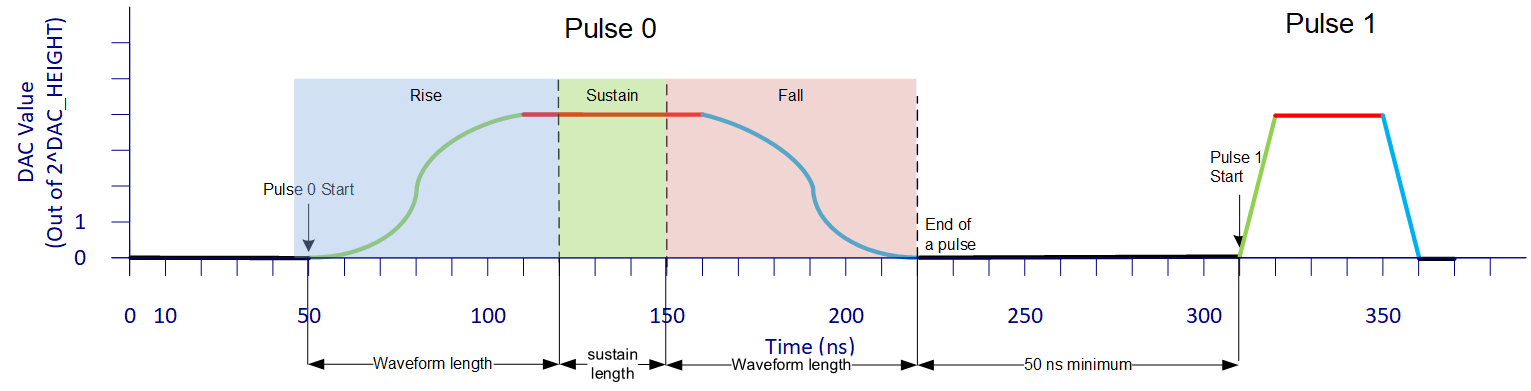
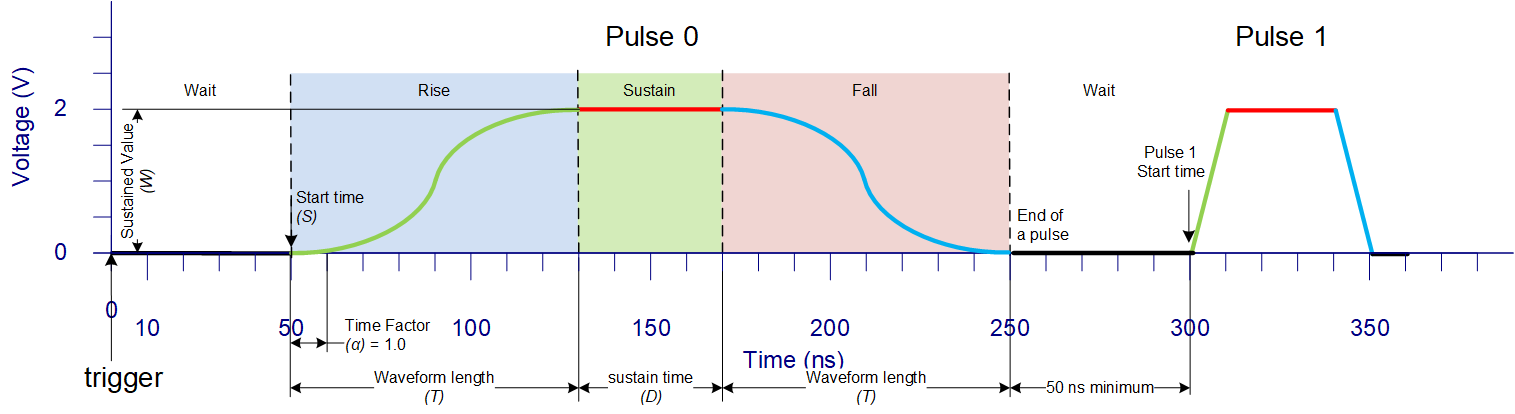
update based on feedback except section 3

diff --git a/chapters/sys.tex b/chapters/sys.tex
@@ -11,21 +11,21 @@
 
 The pulse channel module is an integral component of an FPGA system designed to generate 32 pulsed AC voltage signals and 32 static voltage signals. This system leverages both the processing systems and the programmable logic of the ZCU102 architecture. A Python-based interface allows users to input specific information about the pulses and voltage signals. This interface translates user requests into custom commands, which are then sent to the processing system via the FPGA's UART interface.
 
-The processing system's ARM-based CPU converts Python-generated commands into addressable instructions for the FPGA's blocks. Within the FPGA hardware, a bus router takes the byte-addressable data from the processing system and translates it into block-specific word-addressable data. The system comprises three distinct hardware blocks, each serving a unique and critical function. The orange blocks in \autoref{fig:sys_diagram} illustrate the names of these blocks, which will be discussed in detail in the subsequent sections. This architecture ensures efficient communication and data processing within the FPGA system, enhancing its overall performance and reliability.
+The processing system's ARM-based CPU converts Python-generated commands into addressable instructions for the FPGA's blocks. Within the FPGA hardware, a bus router takes the byte-addressable data from the CPU and translates it into block-specific word-addressable data. The system comprises three distinct hardware blocks, each serving a unique and critical function. The orange blocks in \autoref{fig:sys_diagram} illustrate the names of these blocks, which will be discussed in detail in the subsequent sections. This architecture ensures efficient communication and data processing within the FPGA system, enhancing its overall performance and reliability.
 
-% TODO: this section is more translate Geoff to UW... does it rly needed to be mentioned in the thesis?
-\section{CPU Bus Router}
+% % TODO: this section is more translate Geoff to UW... does it rly needed to be mentioned in the thesis?
+% \section{CPU Bus Router}
 
-The system utilizes a CPU interface adapter to bridge between the PS and the PL. This adapter plays a crucial role by converting byte-addressed signals from the PS AXI bus into a 32-bit word-addressed bus, which is essential for the proper functioning of the blocks within the FPGA design. Illustrated in \autoref{table:ps_addr}, the portions of the PS address are decoded to select one of the three available blocks in the system. Once a block is selected, the lower bits of the address are used to either write to or read from the chosen block. This ensures precise and efficient communication between the PS and the selected block. Additionally, a standardized register interface is implemented in each block to provide consistent access for control and status monitoring, thereby enhancing the system's reliability and ease of use. By employing this CPU interface adapter, the system achieves seamless integration between the PS and PL, facilitating efficient data transfer and control across the FPGA design. This design choice not only simplifies the communication process but also ensures scalability and flexibility for future enhancements.
+% The system utilizes a CPU interface adapter to bridge between the PS and the PL. This adapter plays a crucial role by converting byte-addressed signals from the PS AXI bus into a 32-bit word-addressed bus, which is essential for the proper functioning of the blocks within the FPGA design. Illustrated in \autoref{table:ps_addr}, the portions of the PS address are decoded into block select to choose one of the three available blocks in the system. Once a block is selected, the lower bits of the address are used to either write to or read from the chosen block. This ensures precise and efficient communication between the PS and the selected block. Additionally, a standardized register interface is implemented in each block to provide consistent access for control and status monitoring, thereby enhancing the system's reliability and ease of use. By employing this CPU interface adapter, the system achieves seamless integration between the PS and PL, facilitating efficient data transfer and control across the FPGA design. This design choice not only simplifies the communication process but also ensures scalability and flexibility for future enhancements.
 
  
-% TODO: HOW TF do I properly set the addr table in latex....
-\begin{table}
-\centering
-\caption{Address convert format}
-\includegraphics[width=1.0\textwidth]{figures/pc_address.png}
-\label{table:ps_addr}
-\end{table}
+% % TODO: explain more on this
+% \begin{table}
+% \centering
+% \caption{Address convert format}
+% \includegraphics[width=1.0\textwidth]{figures/pc_address.png}
+% \label{table:ps_addr}
+% \end{table}
 
 \section{Static DC Voltage Block}
 % TODO: replace with a clear picture
@@ -41,35 +41,36 @@ The DC block provides stable and programmable static voltage control using four 
 \begin{table}[h]
 \centering
 
-\caption{SPI DAC message format \cite{ad5628}}
+\caption{SPI DAC message format}
 
 \includegraphics[width=1.0\textwidth]{figures/spi_addr.png}
 \label{table:spi_addr}
 \end{table}
 
-The module supports write operations to update DAC channels and control features such as internal reference voltage and power. It also supports read operations, which return status flags for each SPI transaction. Upon selection, the DC block converts part of the address and the lower 12-bit data from the processing system into SPI command as defined in \autoref{table:spi_addr}. The processing system provides a 12-bit positive integer value for the DACs, which is then converted to an actual voltage value as specified by:
+% Upon selection, the DC block converts part of the address and the lower 12-bit data from the processing system into SPI command as defined in \autoref{table:spi_addr}. 
+The DC block utilizes the lower five bits of the CPU address to select one of four SPI-based DACs. Part of the address is used in the SPI message for the chosen DAC, as detailed in \autoref{table:spi_addr}. This address segment specifies the "channel select" portion of the command, determining which of the eight channels on the selected DAC will be used. The SPI message also includes an "update DAC" command to instruct the DAC to refresh the chosen channel's value, which is set in the "data" portion of the message. The processing system provides a 12-bit positive integer value for the DACs, which is then converted to a voltage value as specified by:
 
 \begin{equation}
 V_{out} = V_{ref} \times \frac{D}{2^{12}}
 \end{equation}
 
-Where $V_{out}$ is the voltage output by the DAC, $V_{ref}$ is the DAC's reference voltage, and $D$ is the data from the processing system \cite{ad5628}. This design ensures precise and flexible static voltage control. The use of multiple DACs and independent SPI modules allows for efficient handling of numerous voltage channels, providing enhanced control and reliability.
+Where $V_{out}$ is the voltage output by the DAC, $V_{ref}$ is the DAC's reference voltage, and $D$ is the data from the processing system \cite{ad5628}. This design ensures precise and flexible static voltage control. Additionally, the module supports write operations to update DAC channels and control features such as internal reference voltage and power. It also supports read operations, which return status flags for each SPI transaction. The use of multiple DACs and independent SPI modules allows for efficient handling of numerous voltage channels, providing enhanced control and reliability.
 
 \section{Pulse AC Voltage Block}
 
-The pulse generation module—also referred to as the AC block—is a sophisticated, synchronous multi-channel pulsed waveform generator designed to deliver precise control for laser operations on the phonetic chips. Its architecture generates pulse sequences with a remarkable 10-nanosecond resolution across 32 channels, ensuring that each digital output is perfectly synchronized. This synchronization proves essential for high-speed digital-to-analog conversion, enabling accurate reconstruction of analog signals.
-% TODO: rename to CCP
+The pulse generation module—also referred to as the AC block—is a synchronous multi-channel pulse generator designed to deliver precise control for laser operations on the photonic chips. Its architecture generates pulse sequences with a 10-nanosecond resolution across 32 channels, ensuring that each digital output is synchronized. 
+
 \begin{figure}[h]
     \centering
     \includegraphics[width=0.8\linewidth]{figures/5.3.png}
     \caption{Block Diagram of the AC block.}
     \label{fig:george}
 \end{figure}
-The AC block acts as the central coordinator for all pulse channels. A Central Coordinator Process (CC-P) manages both external control signals and error notifications from individual channels, ensuring reliable overall performance. Central to its operation is a 24-bit counter that functions as a common timer, as seen in \autoref{fig:george}. Upon receiving an external trigger, this counter initiates the timing process uniformly for all channels. It continues until it reaches either a user-defined sequence length or its maximum value, at which point it sends stop signals to halt pulse generation. This coordinated stopping mechanism is critical because it maintains timing precision and prevents runaway pulses that could lead to data inconsistencies.
+The AC block acts as the central coordinator for all pulse channels. A Central Coordinator Process (CC-P) manages both external control signals and error notifications from individual channels, ensuring reliable overall performance. Central to its operation is a 24-bit counter that functions as a common timer, as seen in \autoref{fig:george}. Upon receiving an external trigger, this counter initiates the timing process uniformly for all channels. It continues until it reaches either a user-defined sequence length or its maximum value, at which point it sends stop signals to halt pulse generation. This coordinated stopping mechanism maintains timing precision and prevents runaway pulses that could lead to data inconsistencies.
 
-A series of internal registers underpin the module's functionality. These registers store key parameters such as the total sequence length, the active channels, and the specific data paths for channels' memories reading and writing operations. Values are loaded into these registers via the CPU interface, which streams configuration data from the processing system. The design supports simultaneous writing to multiple channels, an essential feature for updating waveform parameters in parallel. However, because the data bus is only 32 bits wide, the system limits read operations to one channel at a time, thereby preserving data integrity during retrieval.
+A series of internal registers underpin the module's functionality. These registers store key parameters such as the total sequence length, the active channel enable, and channel select for memory reading and writing operations. Values are loaded into these registers via the CPU interface, which streams configuration data from the processing system. The design supports simultaneous writing to multiple channels, a useful feature for updating pulse parameters in parallel. However, because the data bus is only 32 bits wide, the system limits read operations to one channel at a time.
 
-The module also incorporates an innovative addressing scheme that clearly distinguishes between channel-specific memory and internal control registers. The lower address range is reserved for waveform data and precise pulse parameters, while the upper range is dedicated to registers for the CC-P. Registers for settings such as sequence length, channel enables, and channel selections are both readable and writable. This bidirectional access permits real-time control and monitoring of each channel, facilitating adjustments as operational conditions change. In contrast, dedicated read-only registers continuously convey status information from both the module and the individual pulse channels.
+The module also incorporates an addressing scheme that distinguishes between channel-specific memory and internal control registers. The lower address range is reserved for waveform data and pulse parameters, while the upper range is dedicated to registers for the CC-P. Registers for settings such as sequence length, channel enables, and channel selections are both readable and writable. This bidirectional access permits real-time control and monitoring of each channel, facilitating adjustments as operational conditions change. In contrast, dedicated read-only registers continuously convey status information from both the module and the individual pulse channels.
 
 Error handling within the AC block is equally streamlined. As discussed, each pulse channel generates error signals that are collected as multi-bit vectors. The CC-P then transposes these into several 32-bit registers, with each register corresponding to a specific error type defined in \autoref{table:erro_regs}. Within a given register, each bit represents the status of one of the 32 channels. This systematic condensation of error information into a single-dimensional format simplifies monitoring and debugging processes, enabling engineers to quickly identify and address issues.
 
@@ -79,27 +80,29 @@ The miscellaneous block is a versatile control and status interface integrated i
 
 \section{Software Control Interface}
 % TODO: change this section to match the actual python once it has been re-made
-A robust software interface is as crucial as the FPGA hardware itself for system success. The dedicated Python package translates user-defined waveform values and pulse information into precise addresses and data formats for the hardware. This abstraction bridges the gap between users with limited hardware design experience and the intricate nature of FPGA architectures. By automating tasks such as memory management and data formatting, the system enables users to focus on refining their quantum control strategies rather than wrestling with hardware-level operations. This design philosophy enhances both usability and performance across the entire framework.
+A robust software interface is as crucial as the FPGA hardware itself for system success. The dedicated Python package translates user-defined waveform values and pulse information into addresses and data formats for the hardware. This abstraction bridges the gap between users with limited hardware design experience and the intricate nature of FPGA architectures. By automating tasks such as memory management and data formatting, the system enables users to focus on refining their quantum control strategies rather than wrestling with hardware-level operations. This design philosophy enhances both usability and performance across the entire framework.
 
-The interface functions similarly to a streamlined web API, allowing users to submit waveform data and parameters seamlessly. For every pulse entry, the software automatically locates the next available memory space, computes the starting address and length, and allocates the data accordingly—returning a unique waveform ID for straightforward reference. This methodical allocation ensures that inputs accumulate properly and that any error due to exceeding available memory is promptly flagged. Additionally, the system archives each waveform record in a dedicated file, providing traceability as detailed in \autoref{table:param_rec_table}. The first row for each column in the table represents a unique six-digit wave ID. The remaining rows are values for each base waveform.
+The interface functions similarly to a streamlined web API, allowing users to submit waveform data and parameters seamlessly. For every pulse entry, the software automatically locates the next available memory space, computes the starting address and length, and allocates the data accordingly—returning a unique waveform ID for straightforward reference. This methodical allocation ensures that inputs accumulate properly and that any error due to exceeding available memory is promptly flagged. Additionally, the system archives each waveform record in a dedicated file, providing traceability as detailed in \autoref{table:param_rec_table}. The first row for each column in the table represents a unique six-digit wave ID. The remaining rows are values for each  waveform.
 
+% TODO: add label to explain things
 \begin{table}[h]
 \centering
 \caption{Sample Format of the Waveform Record}
 \label{table:param_rec_table}
-\begin{tabular}{|c|c|c|c|c|}
+\begin{tabular}{|c|c|c|c|}
 \hline
-262144 & 196612 & 327688 & ... & Wave ID abcdef \\
+\textbf{Wave ID} & 262144 & 196612 & 327688\\
 \hline
-0 & 0 & 0 & ... & ... \\
-\hline
-1 & 2 & 5 & ... & ... \\
-\hline
-3 & 5 & 6 & ... & ... \\
-\hline
-4 &  & 8 & ... & ... \\
-\hline
- &  & 12 & ... & ... \\
+\multirow{5}{*}{\rotatebox[origin=c]{90}{\textbf{Waveform Values}}}%
+&0 & 0 & 0 \\
+\cline{2-4}
+&1 & 2 & 5 \\
+\cline{2-4}
+&3 & 5 & 6\\
+\cline{2-4}
+&4 & - & 8\\
+\cline{2-4}
+& - & - & 12\\
 \hline
 \end{tabular}
 \end{table}

diff --git a/chapters/bg.tex b/chapters/bg.tex
@@ -2,51 +2,99 @@
 
 \section{Laser Trapped-Ion Experiment}
 
-Trapped-ion quantum systems have emerged as a leading candidate for quantum computing platforms due to their exceptional coherence times, high-fidelity quantum gates, and promising scalability. In trapped-ion systems, ions—charged atoms confined by electric fields—are precisely controlled and manipulated using laser beams. These lasers serve critical roles, including initializing quantum states, implementing quantum gates, and performing state measurements \cite{naturequantuminfo}. These lasers serve critical roles, including initializing quantum states, implementing quantum gates, and performing state measurements.
+Trapped-ion quantum systems have emerged as a leading candidate for quantum computing platforms due to their outstanding coherence times, high-fidelity quantum gates, and promising scalability. In trapped-ion systems, charged atoms confined by electric fields are precisely controlled and manipulated using laser beams. These lasers serve critical roles, including initializing quantum states, implementing quantum gates, and performing state measurements \cite{naturequantuminfo}. 
 
-However, traditional approaches for optical hardware tend to be bulky, expensive, and power-intensive, posing severe limitations on scalability. As the number of qubits in a trapped-ion quantum computing system grows, these challenges become more pronounced \cite{photonicreview}. Compact, efficient, and rapid modulation capabilities are thus essential to scale quantum computing platforms beyond small-scale demonstrations.
+However, traditional approaches for optical hardware tend to be bulky, expensive, and power-intensive, posing severe limitations on scalability. As the number of qubits in a trapped-ion quantum computing system grows, these challenges become more pronounced \cite{photonicreview}. Compact, efficient, and rapid modulation capabilities are thus needed to scale quantum computing platforms beyond small-scale demonstrations.
 
 Recent advancements in photonic integrated circuits (PICs) have substantially addressed these challenges \cite{apic}. These PICs are miniaturized, enabling direct integration with ion-trap chips, thereby dramatically reducing optical losses, system complexity, and the overall footprint. Crucially, integrated modulators facilitate modulation at very high speeds—on the order of nanoseconds—which matches the stringent timing requirements of quantum operations \cite{naturequantuminfo}.
 
-To fully utilize the capabilities of these advanced PICs, corresponding electronic control systems capable of generating precisely timed, flexible modulation signals at around 100 MHz resolution are necessary. The 100 MHz resolution provided by the system ensures that the modulation signals can be precisely timed and shaped, directly corresponding to the stringent timing requirements of quantum gates that often operate on microsecond timescales. Having 32 synchronous dynamic voltage channels is essential because it allows the simultaneous manipulation of multiple qubits with coherent precision. The precise synchronization of these channels ensures minimal timing jitter and improved gate fidelity, which is indispensable for scaling quantum computing systems \cite{manychanfpgactrlsys}.
+To fully utilize the capabilities of these advanced PICs, corresponding electronic control systems capable of generating precisely timed, flexible modulation signals at around 100 MHz resolution are necessary. The 100 MHz resolution provided by our system ensures that the modulation signals can be precisely timed and shaped, directly corresponding to the stringent timing requirements of quantum gates that often operate on microsecond timescales. Having 32 synchronous dynamic voltage channels is necessary because it allows the simultaneous manipulation of multiple qubits with coherent precision. The precise synchronization of these channels ensures minimal timing jitter and improved gate fidelity, which is indispensable for scaling quantum computing systems \cite{manychanfpgactrlsys}.
 
 \section{Hardware Description}
+% TODO: Diagram of the board/system
+To meet the demands of advanced control electronics, this project utilizes a Field Programmable Gate Array (FPGA). FPGAs excel at high-speed, low-latency parallel processing, enabling the simultaneous control of multiple channels and the implementation of flexible, efficient digital signal processing algorithms. These capabilities make FPGAs particularly suited for managing complex experimental setups that demand precise timing and real-time adaptability. This project employs the Xilinx Zynq UltraScale+ ZCU102 Evaluation Board, a platform chosen for its remarkable computational resources and flexible high-speed interfacing capabilities.
 
-To meet the demands of advanced control electronics, this project utilizes a Field Programmable Gate Array (FPGA). FPGAs excel at high-speed, low-latency parallel processing, enabling the simultaneous control of multiple channels and the implementation of flexible, efficient digital signal processing algorithms. These capabilities make FPGAs particularly suited for managing complex experimental setups that demand precise timing and real-time adaptability. This project employs the Xilinx Zynq UltraScale+ ZCU102 Evaluation Board, a robust platform chosen for its exceptional computational resources and flexible high-speed interfacing capabilities.
+The ZCU102 board (\autoref{fig:fpga_diagram}) is integral for generating precise modulation signals required by quantum lasers. It features a range of peripherals, including PMOD interfaces that support low-speed digital-to-analog converters (DACs) via SPI protocols, and two FMC HPC connectors for high-speed DACs, crucial for waveform generation. The core of this FPGA platform is the Xilinx Zynq architecture, which combines a Processing System (PS) with Programmable Logic (PL) \cite{XilinxUG1182}.
 
-The ZCU102 board is integral for generating precise modulation signals required by quantum lasers. It features a range of peripherals, including PMOD interfaces that support low-speed digital-to-analog converters (DACs) via SPI protocols, and two FMC HPC connectors for high-speed DACs, essential for waveform generation. The core of this FPGA platform is the Xilinx Zynq architecture, which seamlessly combines a Processing System (PS) with Programmable Logic (PL) \cite{XilinxUG1182}.
+\begin{figure}[ht]
+    \centering
+    \includegraphics[width=0.80\linewidth]{figures/board.png}
+    \caption{The FPGA board with necessary peripherals.}
+    \label{fig:fpga_diagram}
+\end{figure}
 
-The PS is powered by a quad-core Arm\textsuperscript{\textregistered} Cortex\textsuperscript{\textregistered}-A53 processor, capable of running real-time processing applications. It incorporates multiple peripherals, such as DDR4 memory for application storage and an Advanced eXtensible Interface (AXI) that connects the PS to other components, including the programmable logic. The PL, essentially the FPGA itself, is equipped with essential resources such as logic cells, flip-flops, and block RAMs (BRAM) \cite{XilinxUG1182}. It provides ample capacity for storing intermediate data.
+The PS is powered by a quad-core Arm\textsuperscript{\textregistered} Cortex\textsuperscript{\textregistered}-A53 processor, capable of running real-time processing applications. It incorporates multiple peripherals, such as DDR4 memory for application storage and an Advanced eXtensible Interface (AXI) that connects the PS to other components, including the programmable logic. The PL, essentially the FPGA itself, contains logic cells, flip-flops, and block RAMs (BRAM) \cite{XilinxUG1182}. It provides ample capacity for storing intermediate data.
 
 This project leverages programmable logic to build custom hardware designs that serve the unique demands of quantum laser experiments. The FPGA's dedicated logic circuits and integrated high-speed interfaces enable quick, reliable communication with external modules. This capability is crucial for maintaining accurate control and precise timin. General-purpose I/O options, such as PMOD and FMC connectors, further simplify the experimental setup. These connectors offer flexible interfacing, allowing for both low-speed and high-speed connections that scale to the experiment's complexity without sacrificing performance.
 
-In addition to the hardware features, a Python interface abstracts the low-level hardware details, streamlines testing and integration with the FPGA platform. Behind the scenes, a custom C-based program running in the processing system translates data from the Python interface into a format that the FPGA can efficiently process. This layered approach bridges high-level control with low-level hardware performance, ensuring that experimental algorithms and rapid prototyping can be achieved with reliability and precision.
+In addition to the hardware features, a Python interface abstracts the low-level hardware details, streamlines testing, and integration with the FPGA platform. Indicated in \autoref{fig:fpga_diagram}, a custom C-based program running in the processing system translates Python-generated commands into data that the FPGA can efficiently process. This layered approach bridges high-level control with low-level hardware performance, ensuring that experimental algorithms and rapid prototyping can be achieved.
 
 \section{Pulse Sequence}
 
-In high-fidelity quantum computing and atomic manipulation, pulsed sequences are essential for delivering precise, accurate, and stable outputs to photonic integrated circuits \cite{apic}. These laser pulses depicted in \autoref{fig:pulse_seq} are designed with a controlled shape that consists of three distinct phases: rise, sustain, and fall. Each phase plays a vital role in ensuring that quantum operations are performed reliably.
+In high-fidelity quantum computing and atomic manipulation, pulsed sequences are pivotal for delivering precise, accurate, and stable outputs to photonic integrated circuits \cite{apic}. These laser pulses (\autoref{fig:pulse_seq}) are designed with a controlled shape that consists of three distinct phases: rise, sustain, and fall. Each phase ensures quantum operations are performed reliably.
 
 \begin{figure}[h]
     \centering
     \includegraphics[width=1\linewidth]{figures/2.1.png}
-    \caption{Waveform shape of the pulse sequence.}
+    \caption{Example of the pulse sequence.}
     \label{fig:pulse_seq}
 \end{figure}
 
-During the rise phase, the laser intensity increases to its target level. A well-controlled rise minimizes errors and ensures that the experiment operate exactly when needed. The sustain phase follows, during which the laser maintains a constant optical intensity. This steady state is crucial because any fluctuation can compromise the fidelity of quantum gates by introducing operational errors \cite{naturequantuminfo}. Finally, the fall phase allows the laser power to decrease smoothly. Notably, maintaining symmetry between the rise and fall phases is critical for consistency and repeatability. In this design, the fall essentially becomes the reciprocal of the rise.
+During the rise phase, the laser intensity increases to its target level. A well-controlled rise minimizes errors and ensures that the experiment operate exactly when needed. The sustain phase follows, during which the laser maintains a constant optical intensity. This steady state is paramount because any fluctuation can compromise the fidelity of quantum gates by introducing operational errors \cite{naturequantuminfo}. Finally, the fall phase allows the laser power to decrease smoothly. Notably, maintaining symmetry between the rise and fall phases is critical for consistency and repeatability. In this design, the fall essentially becomes the mirror image of the rise. The rise is a programmable waveform pattern, while the sustain is a flat region with programmable length.
 
-The waveform is generated as a series of discrete values representing a continuous function, with samples taken every 10 nanoseconds by the digital-to-analog converter (DAC). These sample values can be adjusted from a set of parameters to fine-tune the laser's output. For a waveform $f(x)$, a pulse $g(x)$ generated by the hardware to the laser can be defined by:
+Pulse 0 from \autoref{fig:pulse_seq}, with a waveform \( f_0(x) \) (green line), can be generated using the equations in \autoref{tab:pulse_eqs} at various times and phases. Here, \( S \) denotes the pulse start time, \( T \) is the waveform length, \( \alpha \) is the time factor, \( D \) is the sustain time, \( A \) is the gain factor, and \( W \) is the output value during the sustain phase. Note that in \autoref{fig:pulse_seq}, both the time and gain factors are set to 1.
+% Detailed description of the parameters are described in \autoref{tab:pd_param}.
 
-\begin{equation}
-g(x) = A \cdot 
-\begin{cases} 
-f\left(\dfrac{\alpha(x - S)}{T}\right), & \!\!\! S \leq x < S + \left\lceil \frac{T-1}{\alpha} \right\rceil, \\[8pt]
-f\left(\dfrac{T-1}{T}\right), & \!\!\! S + \left\lceil \frac{T-1}{\alpha} \right\rceil \leq x < S + \left\lceil \frac{T-1}{\alpha} \right\rceil + D, \\[8pt]
-f\left(\dfrac{\alpha\left(2\left\lceil \frac{T-1}{\alpha} \right\rceil + D - (x - S) - 1\right)}{T}\right), & \!\!\! S + \left\lceil \frac{T-1}{\alpha} \right\rceil + D \leq x < S + 2\left\lceil \frac{T-1}{\alpha} \right\rceil + D - 1, \\[8pt]
-0, & \!\!\! \text{otherwise}.
-\end{cases}
-\end{equation}
+% The pulses are represented as a series of discrete values representing a continuous function, with samples given every 10 nanoseconds to the digital-to-analog converter (DAC). These sample values can be adjusted to fine-tune the laser's output. 
+% For a waveform $f(x)$, a pulse $g(x)$ generated by the hardware for the laser can be defined by:
+
+% % TODO: more pages to simplify this equation (what time on thing)
+% \begin{equation}
+% g(x) = A \cdot 
+% \begin{cases} 
+% f\left(\dfrac{\alpha(x - S)}{T}\right), & \!\!\! S \leq x < S + \left\lceil \frac{T-1}{\alpha} \right\rceil, \\[8pt]
+% f\left(\dfrac{T-1}{T}\right), & \!\!\! S + \left\lceil \frac{T-1}{\alpha} \right\rceil \leq x < S + \left\lceil \frac{T-1}{\alpha} \right\rceil + D, \\[8pt]
+% f\left(\dfrac{\alpha\left(2\left\lceil \frac{T-1}{\alpha} \right\rceil + D - (x - S) - 1\right)}{T}\right), & \!\!\! S + \left\lceil \frac{T-1}{\alpha} \right\rceil + D \leq x < S + 2\left\lceil \frac{T-1}{\alpha} \right\rceil + D - 1, \\[8pt]
+% 0, & \!\!\! \text{otherwise}.
+% \end{cases}
+% \end{equation}
+
+\begin{table}[ht]
+    \centering
+    \caption{A single pulse's output at various time}
+    \begin{tabularx}{\textwidth}{|X|c|X|}
+        \hline
+        Time & Phase & Output \\
+        \hline
+        0&Wait&0\\
+        \hline
+        \multicolumn{3}{|c|}{\vdots}\\
+        \hline
+        $S_0-1$&Wait&0\\
+        \hline
+        $S_0$&Rise&$A_0f_0(0)$\\
+        \hline
+        $S_0+\alpha$&Rise&$A_0f_0(\frac{\alpha}{T_0})$\\
+        \hline
+        \multicolumn{3}{|c|}{\vdots}\\
+        \hline
+        $S_0+T_0$&Rise&$A_0ff_0(\frac{T_0-1}{T_0})$\\
+        \hline
+        $S_0+T_0+1$&Sustain&$W_0$\\
+        \hline
+        \multicolumn{3}{|c|}{\vdots}\\
+        \hline
+        $S_0+T_0+D_0+1$&Fall&$A_0f_0(\frac{T_0-1}{T_0})$\\
+        \hline
+        \multicolumn{3}{|c|}{\vdots}\\
+        \hline
+        $S_0+T_0+D_0+T_0$&Fall&$A_0f_0(0)$\\
+        \hline
+        $S_0+T_0+D_0+T_0+1$&Wait&$0$\\
+        \hline
+    \end{tabularx}
+    \label{tab:pulse_eqs}
+\end{table}
 
 
 
-where $S$ is the pulse start time, $T$ is the waveform rise's length, $\alpha$ is the time factor, $D$ is the sustain time, and $A$ is the gain factor.

diff --git a/uwthesis.tex b/uwthesis.tex
@@ -77,6 +77,7 @@
 \usepackage{graphicx}
 \usepackage{float}
 \usepackage{tabularx}
+\usepackage{multirow}
 
 \setlength{\intextsep}{5pt}           % Controls spacing around float environments
 
@@ -92,8 +93,8 @@
 %
 % ----- copyright and title pages
 %
-\Title{Programmable System for Laser Control of Trapped-Ion Experiment}
-\Author{Haochen Yu}
+\Title{Programmable System for Laser Control of Trapped-Ion Experiments}
+\Author{Haochen "Eric" Yu}
 \Year{2025}
 \Program{Electrical and Computer Engineering  }
 
@@ -132,7 +133,7 @@
 % TODO
 Modern quantum computing experiments demand exceptional precision, especially when controlling laser pulses for trapped-ion systems. Recent optical breakthroughs now pack dozens of channels onto a single chip, enabling efficient multichannel laser control. However, the supporting electronics often lack the necessary timing accuracy and flexibility. This shortfall can hinder progress and frustrate researchers.
 
-This thesis presents an FPGA-based laser control system on a Xilinx Zynq platform. A key module generates precise pulse waveforms and integrates into a system that delivers 32 pulsed alongside 32 static voltage signals. By leveraging dual-port block memories, robust state machines, and high-speed interfaces, the system achieves sub-microsecond timing with low resource usage. Simulation and board testing confirm accurate pulse generation while highlighting opportunities for enhanced precision and improved error handling. Overall, this work offers a reliable, scalable, and cost-effective solution for advanced FPGA applications in quantum control.
+This thesis presents an FPGA-based laser control system on a Xilinx Zynq platform. A key module generates precise pulse waveforms and integrates into a system that delivers 32 pulsed alongside 32 static voltage signals. By leveraging dual-port block memories, state machines, and high-speed interfaces, the system achieves sub-microsecond timing with low resource usage. Simulation and board testing confirm accurate pulse generation while highlighting opportunities for enhanced precision and improved error handling. Overall, this work offers a reliable, scalable, and cost-effective solution for advanced FPGA applications in quantum control.
 }
  
 %
@@ -147,11 +148,14 @@ This thesis presents an FPGA-based laser control system on a Xilinx Zynq platfor
 %
 \acknowledgments{% \vskip2pc
   % {\narrower\noindent
+
 I extend my deepest gratitude to everyone who has supported me on this journey. I am especially thankful to my advisor, Professor Scott Hauck, whose guidance and unwavering support have been indispensable. Working in his laboratory provided me with incredible opportunities and invaluable resources that enriched my personal, academic, and professional growth.
 
-I also appreciate Professor Sara Mouradian for serving on my thesis committee. Her thoughtful insights, innovative research, and clear vision have been a driving force behind this project. Her understanding of the project's foundations and her dedication to advancing its potential have been inspirational in pushing boundaries and refining the project.
+I also appreciate Professor Sara Mouradian, a valued member of my thesis committee, has been a driving force behind this project. Her strategic vision and deep understanding of its foundations have consistently propelled innovation and advanced its potential.
 
-I am grateful to my friends and family for their steadfast support. Special thanks to Buke Hu from QT3 Laboratory for providing key papers of the project’s application, Jeffery Xu from Boeing for offering technical guidance during the design process, and Geoffrey Jones for his significant efforts in initiating and directing the project. Lastly, my heartfelt thanks go to my mother, Dr. Li Yang, for her constant encouragement throughout my journey.
+My thanks extend to Geoffrey Jones for his significant contributions. His detailed design insights have been crucial in shaping the entire system. His continued technical support has influenced every stage of the design.
+
+I truly appreciate the support of my friends and family. I am thank to Buke Hu from QT3 Laboratory for providing essential publications on the project’s application, and to Jeffery Xu from Boeing for his technical guidance during the design phase. Lastly, I owe my deepest appreciation to my mother, Dr. Li Yang, whose constant encouragement has been a cornerstone of my journey.
   % \par}
 }
  

diff --git a/chapters/intro.tex b/chapters/intro.tex
@@ -4,6 +4,6 @@ Trapped-ion quantum computing stands at the forefront of modern quantum technolo
 
 This hardware design, implemented on a Xilinx Zynq FPGA platform, harnesses the combined power of high-speed and low-speed digital-to-analog converters (DACs) to achieve synchronous control across 32 discrete laser channels. With a frequency of 100 MHz, the system meets the rigorous temporal precision required for high-fidelity qubit manipulation. Such demanding performance is essential, as even slight deviations in timing can significantly impact the accuracy and repeatability of quantum operations \cite{manychanfpgactrlsys}.
 
-The design approach is both well-structured and modular, ensuring a robust foundation for development. Initially, a single pulse channel will be developed and rigorously evaluated as a proof-of-concept. This initial validation is crucial as it demonstrates the feasibility and effectiveness of the design. Once the single channel is successfully validated, it will be scaled into a comprehensive system by integrating custom programmable logic blocks. These blocks are designed to efficiently deliver stable DC voltage control and generate dynamic, high-frequency pulsed waveforms. This capability ensures versatile and precise signal manipulation. The scalability and modularity of the design not only meet current experimental demands but also provide a robust framework that can adapt to future challenges in quantum computing \cite{programmablesoc4ctrlexperiment}. This adaptability is particularly important as it allows the system to evolve with advancements in the field, ensuring long-term relevance and utility.
+The design approach is both well-structured and modular, ensuring a robust foundation for development. Initially, a single pulse channel is developed and rigorously evaluated as a proof-of-concept. This initial validation is crucial as it demonstrates the feasibility and effectiveness of the design. Once the single channel is successfully validated, it is scaled into a comprehensive system by integrating custom programmable logic blocks. These blocks are designed to efficiently deliver stable DC voltage control and generate dynamic, high-frequency pulsed waveforms. This capability ensures versatile and precise signal manipulation. The scalability and modularity of the design not only meet current experimental demands but also provide a robust framework that can adapt to future challenges in quantum computing \cite{programmablesoc4ctrlexperiment}. This adaptability is particularly important as it allows the system to evolve with advancements in the field, ensuring long-term relevance and utility.
 
 Central to the system's performance is its effective exploitation of the FPGA's built-in features. By incorporating custom memory IP, high-speed internal communication interfaces, and an embedded ARM CPU core, the design achieves remarkable throughput and robustness. This careful coordination of resources ensures precise hardware timing and optimal utilization. This strategic use of FPGA capabilities underscores the system's ability to deliver high performance and reliability.

diff --git a/chapters/spec.tex b/chapters/spec.tex
@@ -14,7 +14,7 @@ An essential step in verifying the functionality of the pulse channel module is 
 
 After verifying that the hardware behaves as expected during initial tests that memory read and write operations execute correctly, a more comprehensive regression is initiated. In this phase, a software generator creates random pulse parameters and base rise values applicable to both the hardware design and its floating-point software equivalent model. This randomized input methodology is essential because it simulates a wide range of real-world conditions, thereby enhancing the testing process in terms of efficiency, reliability, and overall robustness.
 
-The software model calculates a theoretical floating-point value for each randomly generated pulse. This expected value serves as the benchmark for subsequent comparisons. However, since FPGA hardware operates with integer-based addresses and data, all pulse parameter values are scaled and then rounded down (floored) to the nearest integer before being written to memory or interfaced with other peripherals, as depicted in \autoref{fig:block_diagram}. After the conversion, the pulse waveform produced by the hardware is compared against the modeled floating-point value. Naturally, some discrepancies may emerge due to the inherent rounding process. To quantify these differences, an error metric is computed as the absolute difference between the theoretical and actual values. Additionally, a delta value is determined by measuring the difference between sequential output values from the hardware, providing further insight into the system's behavior over time. 
+The software model calculates a theoretical floating-point value for each randomly generated pulse. This expected value serves as the benchmark for subsequent comparisons. However, since FPGA hardware operates with integer-based addresses and data, all pulse parameter values are scaled and then rounded down (floored) to the nearest integer before being written to memory or interfaced with other peripherals, as depicted in \autoref{fig:block_diagram}. After the conversion, the values produced by the hardware is compared against the modeled floating-point value. Naturally, some discrepancies may emerge due to the inherent rounding process. To quantify these differences, an error metric is computed as the absolute difference between the theoretical and actual values. Additionally, a delta value is determined by measuring the difference between sequential output values from the hardware, providing further insight into the system's behavior over time. 
 % This comprehensive approach not only validates the hardware's capacity to process and generate pulses accurately but also highlights areas that may require further refinement, ensuring that the system meets stringent performance and reliability standards in practical applications.
 
 \section{Check Error}

diff --git a/chapters/result.tex b/chapters/result.tex
@@ -42,16 +42,22 @@ To validate the functionality and ensure the reliability of the pulse channel mo
 
 
 \section{Board Result}
-% TODO: need to collect something from the scope from 137 (Geoff's not good)
-The system is examined using Xilinx's Integrated Logic Analyzer (ILA) to validate the overall functionality and internal signals from multiple modules, including the single pulse channel module.  
+The system is examined using Xilinx's Integrated Logic Analyzer (ILA) to validate signals from multiple modules, including the single pulse channel module.  
 \begin{figure}[h]
     \centering
     \includegraphics[width=1\linewidth]{figures/ila.png}
-    \caption{ILA monitored the result (131,072 samples) from the top level.}
+    \caption{ILA monitored the result from the top level.}
     \label{fig:ila}
 \end{figure}
 % The ILA plays a crucial role in verifying the precise timing of waveform generation triggered externally. Traditional oscilloscopes often struggle to capture such high-resolution timing details, making the ILA essential for this role. 
-For this experiment, a simple waveform comprising the sequences 4, 5, 6, and 7 starting at the earliest possible time (50ns) is fed into the hardware. The result measures the delay between the external trigger and the first output by monitoring channel 0 at the top-level CC-P. The result in \autoref{fig:ila} shows the first output appears after 8 cycles, with each cycle lasting 10 nanoseconds. This timing results in an 80-nanosecond delay, confirming that the pulse generation operates well within the sub-microsecond range required for quantum control hardware. Furthermore, the ILA data shows that data updates occur every 10 nanoseconds, demonstrating the rapid switching performance essential for high-speed applications.
+A 55-sample waveform, starting from a nonzero value at 50 ns, is transmitted to the hardware and captured by the ILA (see \autoref{fig:ila}). The first output appears after 8 cycles, with each cycle lasting 10 nanoseconds. This timing results in an 80-nanosecond delay, confirming that the pulse generation operates well within the sub-microsecond range required for quantum control hardware. Furthermore, the ILA data shows that data updates occur every 10 nanoseconds, demonstrating the rapid switching performance essential for high-speed applications. Additionally, an external oscilloscope recorded a pulse sequence in \autoref{fig:osc}, further verifying the overall functionality and behavior of the design.
+\begin{figure}[h]
+    \centering
+    \includegraphics[width=.85\linewidth]{figures/one_trig_seq.png}
+    \caption{\centering{A single pulse sequence captured on an oscilloscope. The yellow line is the pulse sequence, the green line is the valid signal, and the red line is the trigger signal.}}
+    \label{fig:osc}
+\end{figure}
+% The ILA plays a 
 
 \section{Resource Utilization}
 

diff --git a/chapters/block.tex b/chapters/block.tex
@@ -1,5 +1,7 @@
 \chapter{Block Architecture}
-
+% TODO: define more what is going on conceptually, why do we have two tables etc. 
+% Define "pulse" and "waveform"
+% More diagram to explain this
 \section{Functional Specification}
 
 The pulse channel module generates precisely timed laser pulses using user-defined configurations, base waveforms, and a fixed sequence length. It relies on Xilinx block RAM IPs, a robust state machine, and versatile interfaces to produce a 16-bit waveform for an external 16-bit DAC.
